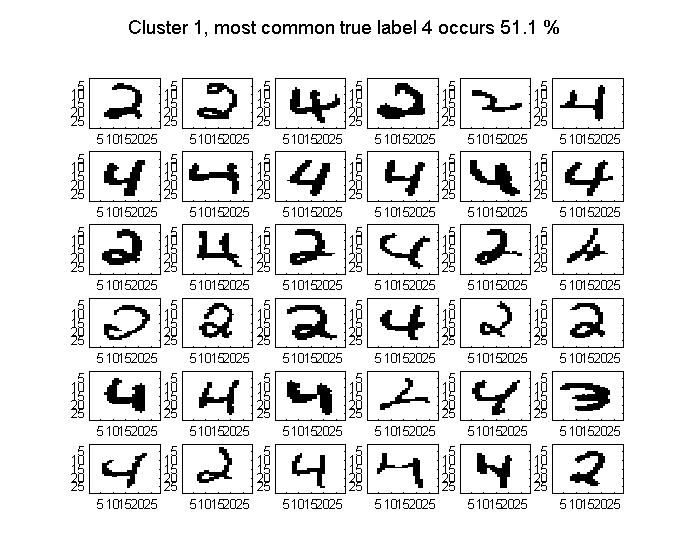
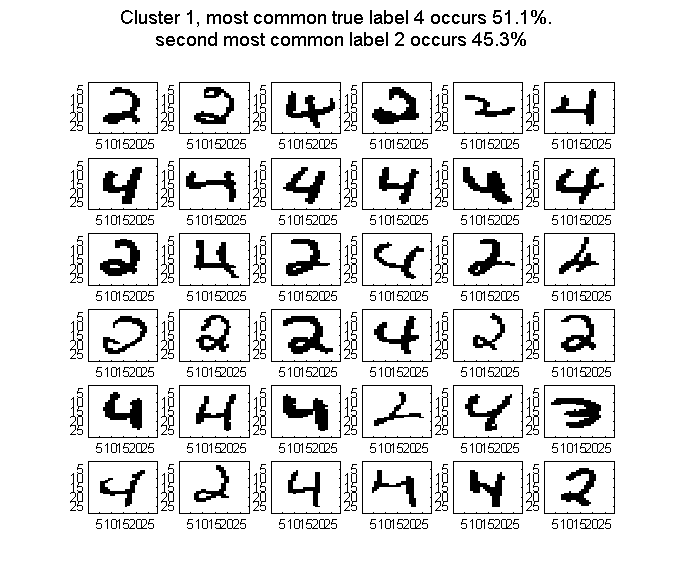
more plots for 3

diff --git a/Assignment 4/EM_mnist.m b/Assignment 4/EM_mnist.m
@@ -51,7 +51,7 @@ for row=1:rows
         image(reshape(mu(k,:),[28,28]));
         title(sprintf('Class %d', k));   
         if(k==1)
-            xlabel('Iter %d',steps(row))
+            ylabel(sprintf('Iter %d',steps(row)))
         end
     end
 end
@@ -72,8 +72,13 @@ for i = 1:K
         image(reshape(Xi(s,:),[28,28]));
     end
     correct = mean(Labelsi==Label);
-    incorrect = incorrect + sum(Labelsi ~= Label); 
-    suptitle(sprintf('Cluster %d, most common true label %d occurs %.1f %%',i,Label,correct*100))
+    Lii = Labelsi(Labelsi~=Label);
+    second = mode(Lii); 
+    Liii = Lii(Lii~=second);
+    third = mode(Liii);
+    incorrect = incorrect + sum(Labelsi ~= Label);
+    suptitle(sprintf('Cluster %d, most common true label %d occurs %.1f%%. \n second most common label %d occurs %.1f%% \n third most common label %d occurs %.1f%%',...
+        i,Label,correct*100,second,mean(Labelsi==second)*100),third,mean(Labelsi==third)*100))
     hold off;
 end
 hold off;
